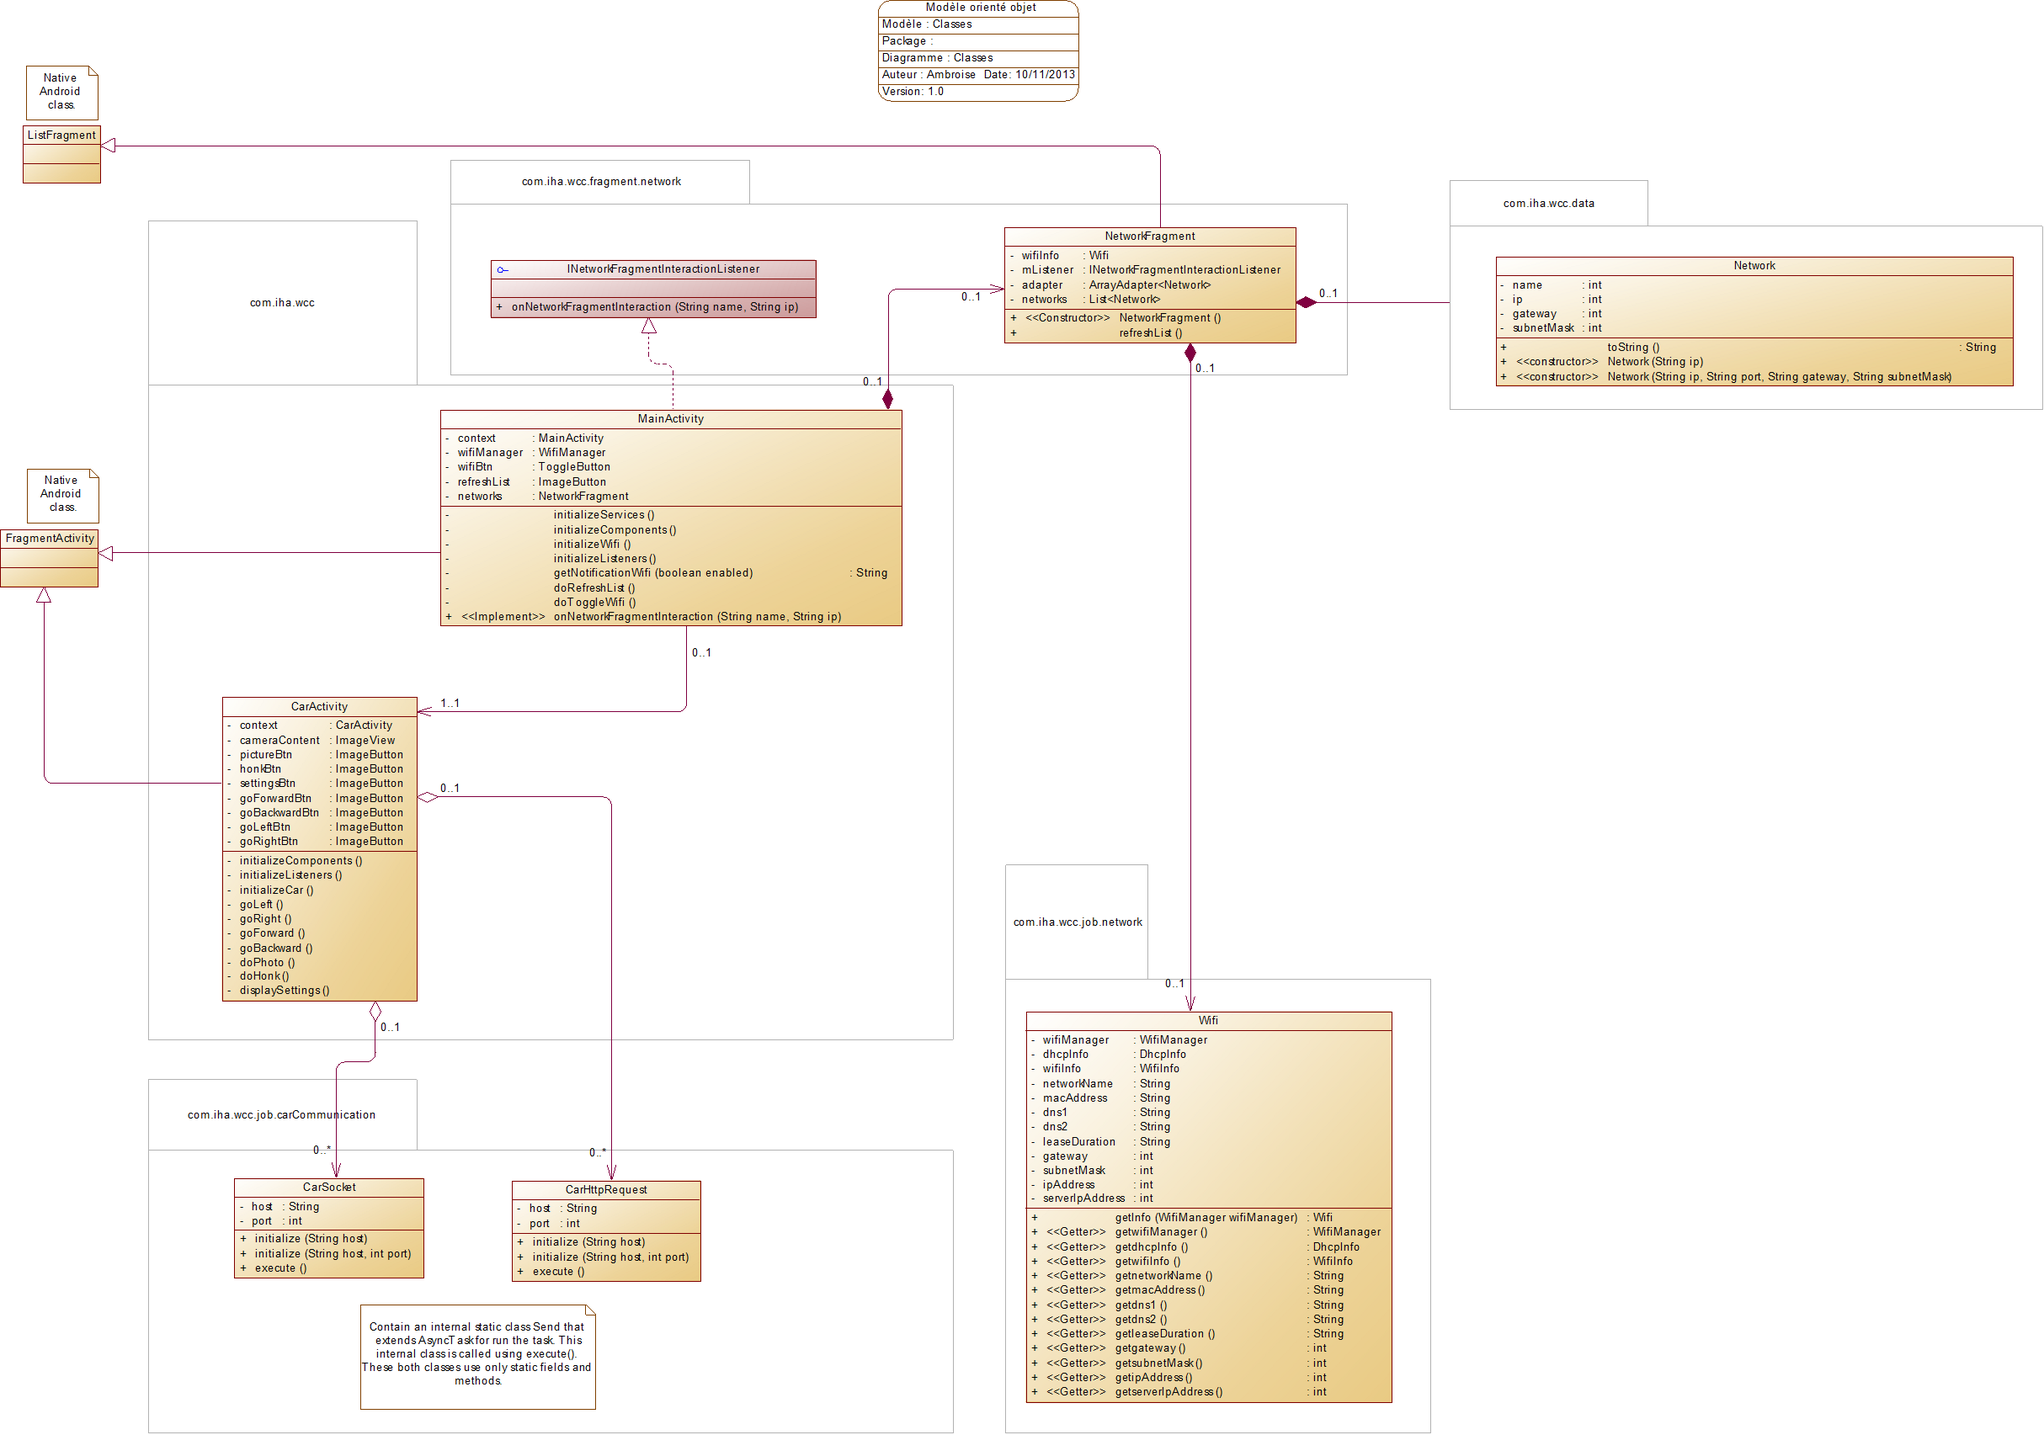
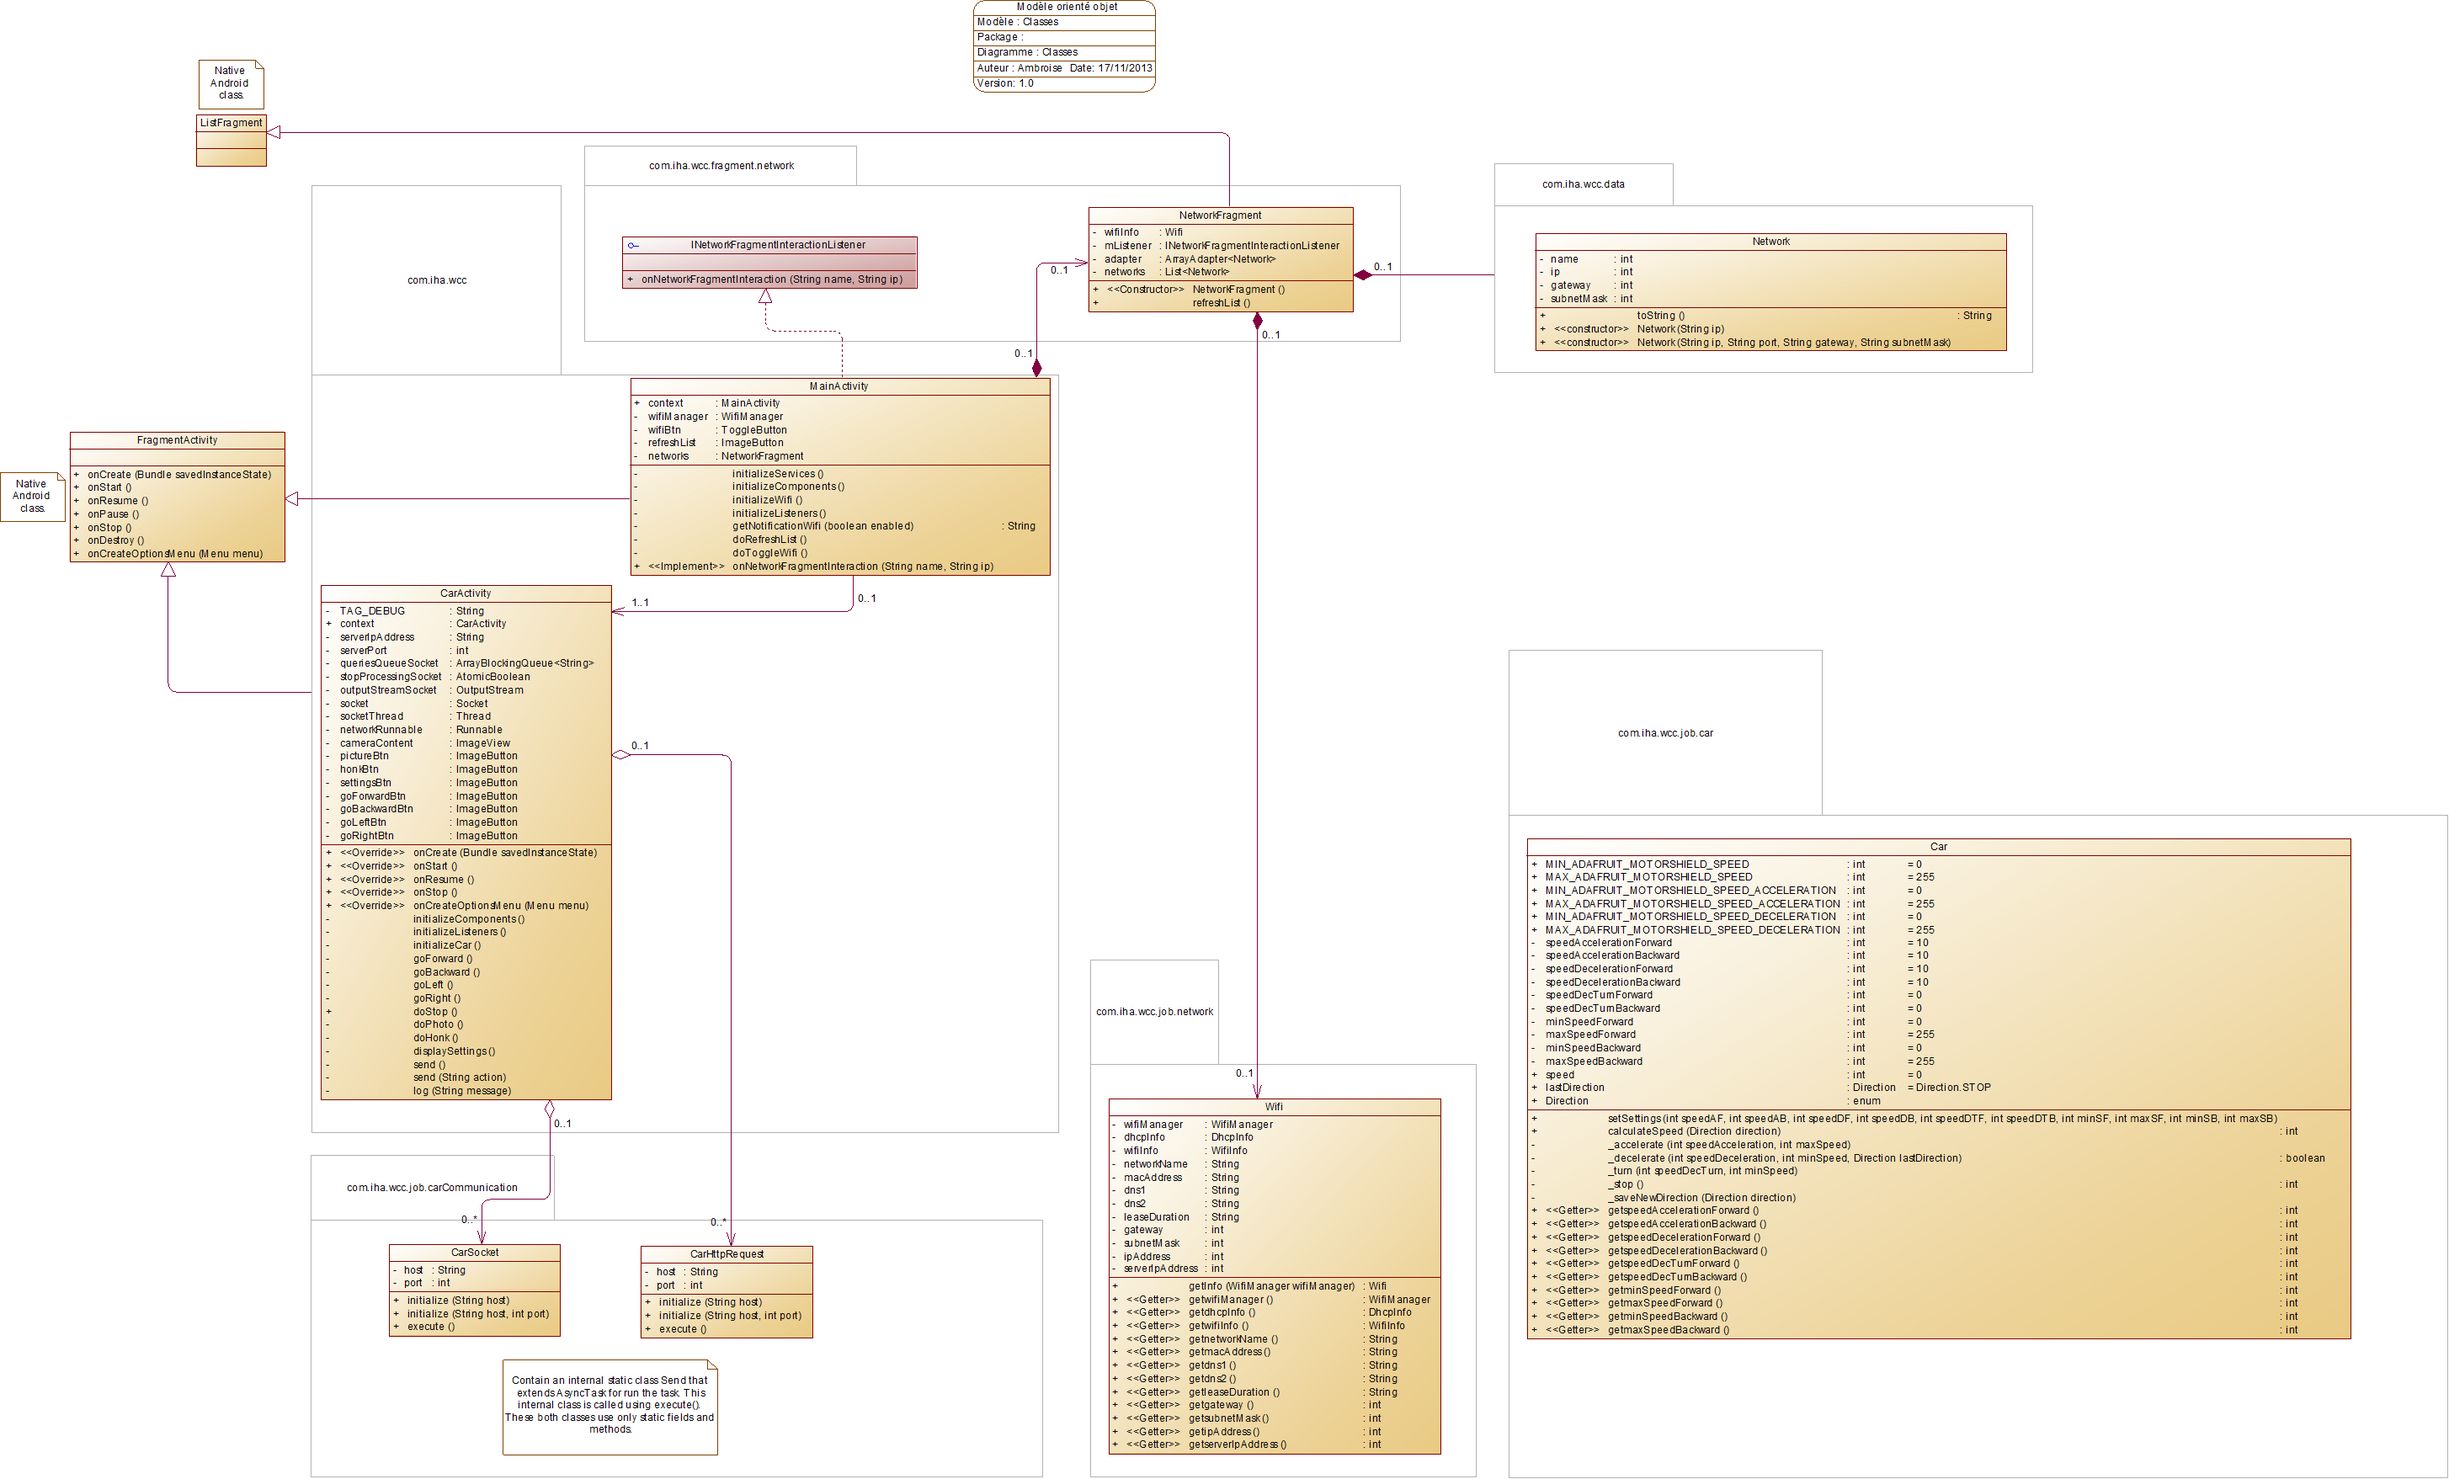
Update documentation, diagrams.

diff --git a/Android/src/com/iha/wcc/CarActivity.java b/Android/src/com/iha/wcc/CarActivity.java
@@ -9,9 +9,9 @@ import java.util.concurrent.ArrayBlockingQueue;
 import java.util.concurrent.atomic.AtomicBoolean;
 
 
-import android.app.Activity;
 import android.content.Context;
 import android.os.Bundle;
+import android.support.v4.app.FragmentActivity;
 import android.util.Log;
 import android.view.Menu;
 import android.view.MotionEvent;
@@ -23,7 +23,7 @@ import android.widget.TextView;
 import android.widget.Toast;
 import com.iha.wcc.job.car.Car;
 
-public class CarActivity extends Activity {
+public class CarActivity extends FragmentActivity {
 	/**
 	 * Static instance of itself.
 	 */
@@ -178,6 +178,13 @@ public class CarActivity extends Activity {
         super.onStop();
     }
 
+    @Override
+    public boolean onCreateOptionsMenu(Menu menu) {
+        // Inflate the menu; this adds items to the action bar if it is present.
+        getMenuInflater().inflate(R.menu.car, menu);
+        return true;
+    }
+
 	/**
 	 * Initialize all view components.
 	 */
@@ -300,13 +307,6 @@ public class CarActivity extends Activity {
 			}
 		});
 	}
-
-	@Override
-	public boolean onCreateOptionsMenu(Menu menu) {
-		// Inflate the menu; this adds items to the action bar if it is present.
-		getMenuInflater().inflate(R.menu.car, menu);
-		return true;
-	}
 	
 	// The next methods communicate with the car.
 	
@@ -418,9 +418,9 @@ public class CarActivity extends Activity {
 
     /**
      * Debug log.
-     * @param s Message to display.
+     * @param message Message to display.
      */
-    public void log(String s){
-        Log.d(TAG_DEBUG, s);
+    private void log(String message){
+        Log.d(TAG_DEBUG, message);
     }
 }

diff --git a/Android/src/com/iha/wcc/job/car/Car.java b/Android/src/com/iha/wcc/job/car/Car.java
@@ -228,7 +228,7 @@ public class Car {
 
         // Update the last direction used.
         if(autoUpdateDirection){
-            saveNewDirection(direction);
+            _saveNewDirection(direction);
         }
 
         // Return the new speed to use.
@@ -266,7 +266,7 @@ public class Car {
             speed -= speedDeceleration;
 
             // Don't change the sens of the car, we just decelerate.
-            saveNewDirection(lastDirection);
+            _saveNewDirection(lastDirection);
 
             // We changed manually the direction, don't auto update the direction. (It would be wrong)
             return false;
@@ -302,7 +302,7 @@ public class Car {
         speed = 0;
 
         // Save the new direction.
-        saveNewDirection(Direction.STOP);
+        _saveNewDirection(Direction.STOP);
 
         // Return the actual speed. (calculateSpeed method compatibility return type)
         return speed;
@@ -312,7 +312,7 @@ public class Car {
      * Update the lastDirection for the next action.
      * @param direction The new direction of the car.
      */
-    private static void saveNewDirection(Direction direction){
+    private static void _saveNewDirection(Direction direction){
         lastDirection = direction;
     }
 
